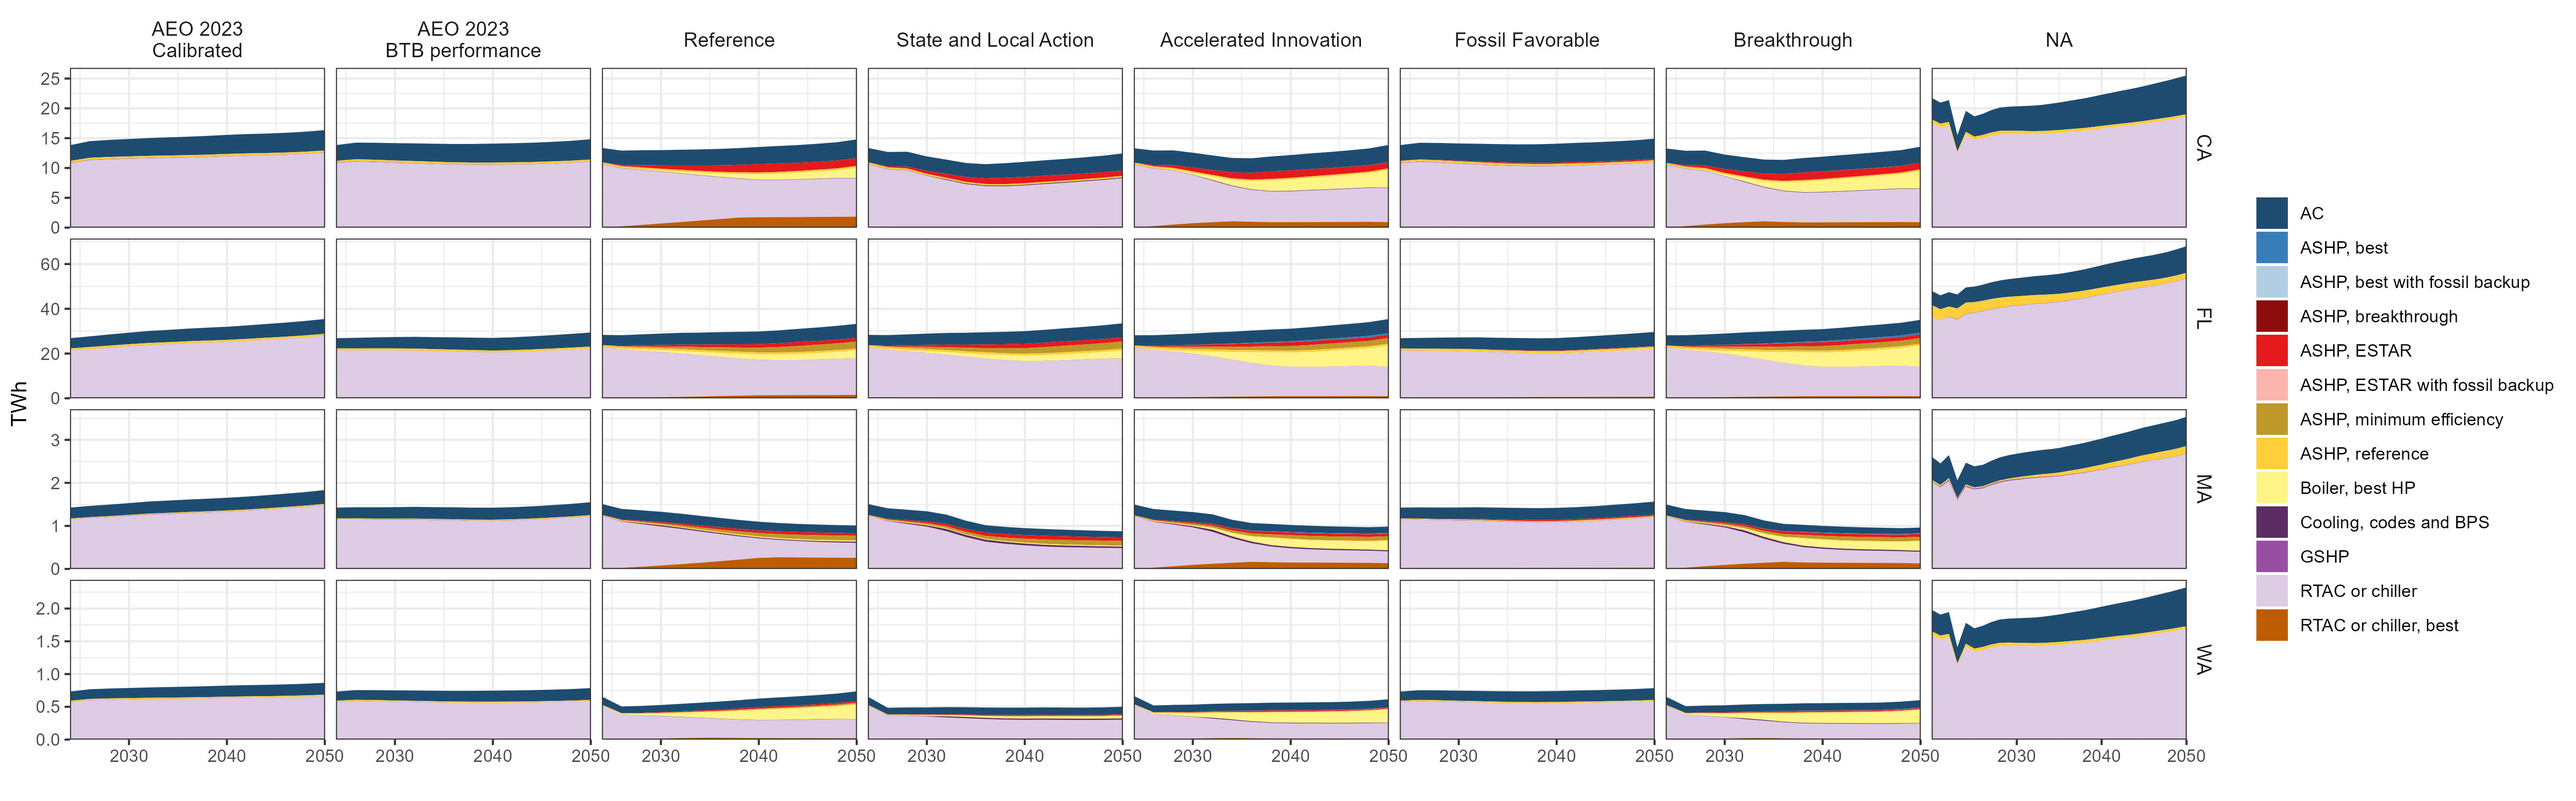
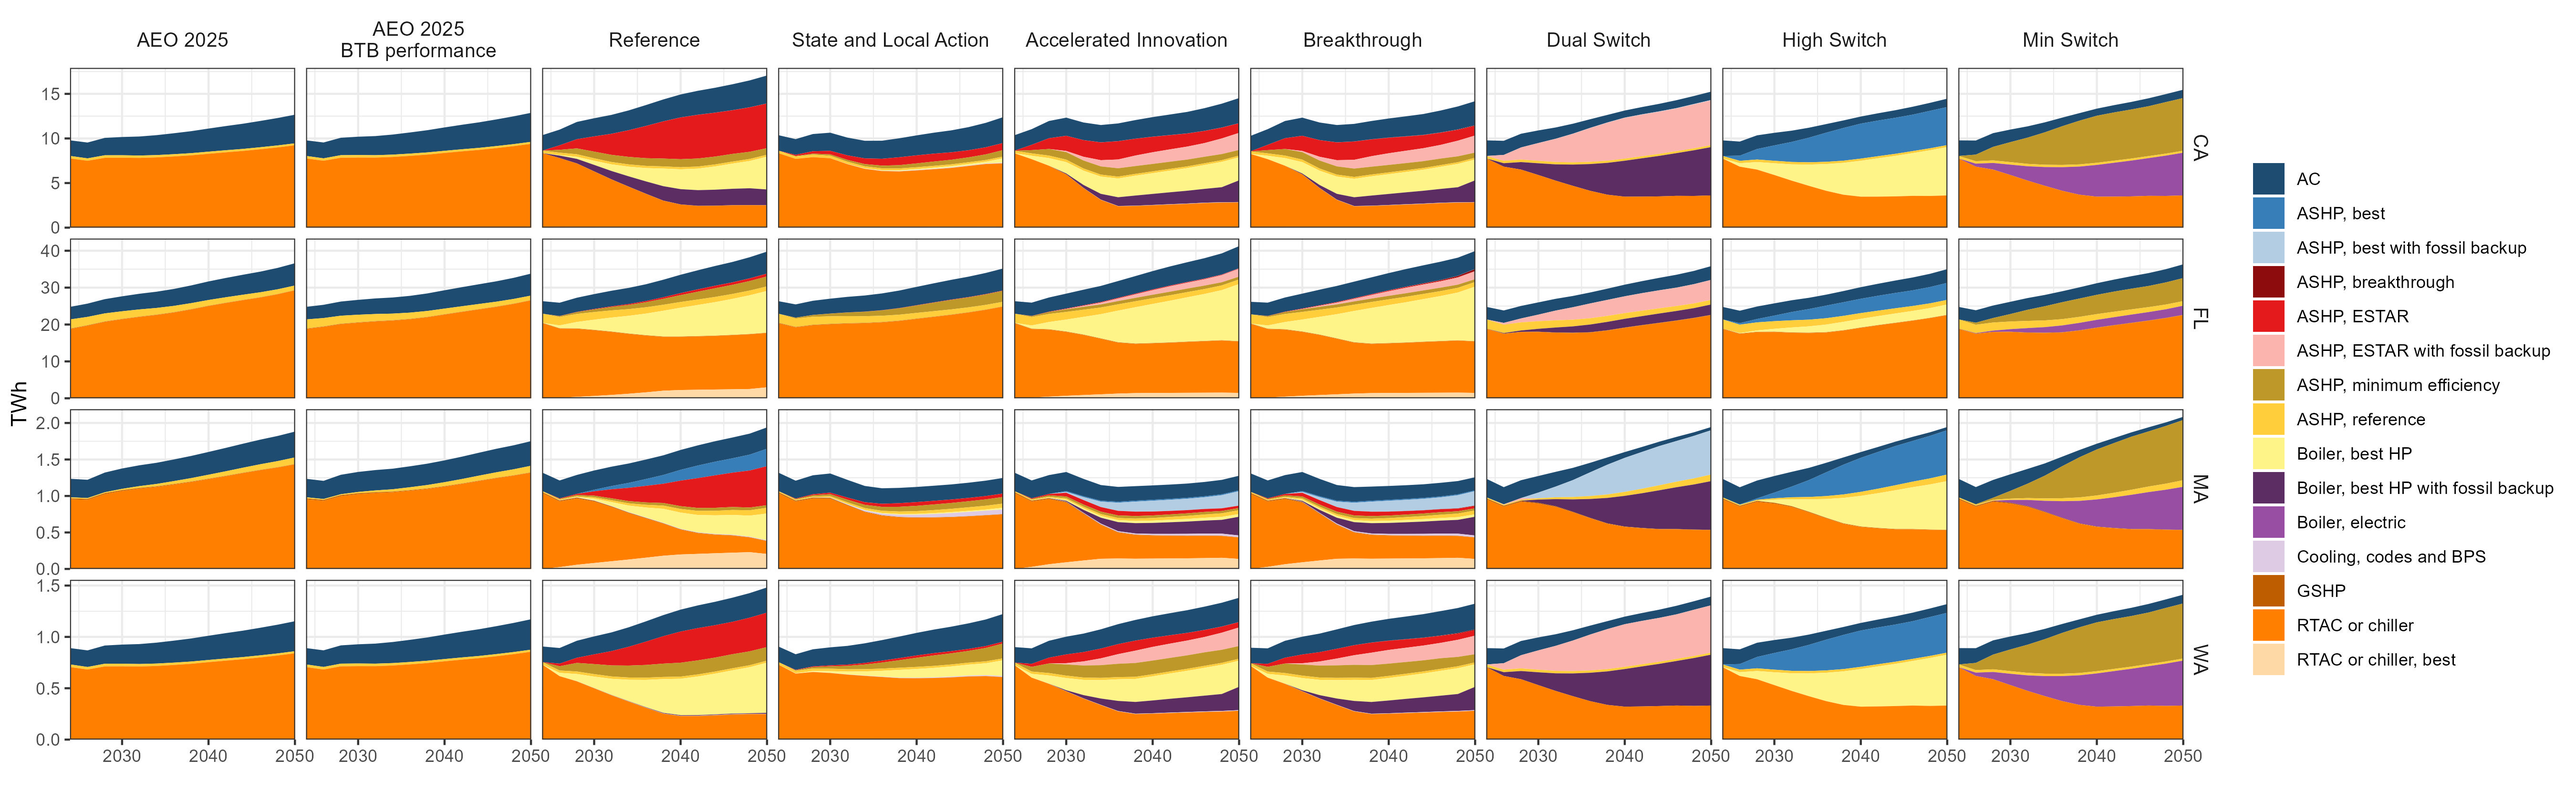
Modified to the latest

diff --git a/bss_workflow.py b/bss_workflow.py
@@ -42,9 +42,8 @@ class Config:
     # Runtime switches/identifiers
     DEST_BUCKET = "bss-workflow"
     BUCKET_NAME = "handibucket" 
-    SCOUT_RUN_DATE = "2025-06-16"
-    # VERSION_ID = "20250806_amy"
-    VERSION_ID = "20250910"
+    SCOUT_RUN_DATE = "2025-09-11"
+    VERSION_ID = "20250911"
 
     # TURNOVERS = ["breakthrough", "ineff", "mid", "high", "stated"]
     # TURNOVERS = ['brk','aeo25_20to50_bytech_indiv','aeo25_20to50_bytech_gap_indiv']
@@ -747,9 +746,10 @@ def county_partition_multipliers(athena_client, cfg: Config):
 def gen_scoutdata(s3_client, athena_client, cfg: Config):
     scout_files = [
         # Examples kept; you can uncomment the ones you need.
-        # "brk.json", 
-        # "accel.json", "state.json", "ref.json", "aeo.json",
-        # "dual_switch.json", "high_switch.json"
+        "brk.json", 
+        "accel.json", "state.json", "ref.json", "aeo.json",
+        "dual_switch.json", 
+        "high_switch.json",
         "min_switch.json"
         # "aeo25_20to50_bytech_indiv.json",
         # "aeo25_20to50_bytech_gap_indiv.json",
@@ -757,7 +757,7 @@ def gen_scoutdata(s3_client, athena_client, cfg: Config):
     ]
 
     # Ensure measure_map exists in Athena
-    # s3_create_table_from_tsv(s3_client, athena_client, cfg.MEAS_MAP_PATH, cfg)
+    s3_create_table_from_tsv(s3_client, athena_client, cfg.MEAS_MAP_PATH, cfg)
 
     for scout_file in scout_files:
         print(f">>> SCOUT FILE: {scout_file}")
@@ -798,8 +798,7 @@ def gen_countydata(athena_client, cfg: Config):
     for s in sectors:
         for y in years:
             for t in turnovers:
-                for name in ["tbl_ann_county.sql", "annual_county.sql",
-                             "tbl_hr_county.sql", "hourly_county.sql"]:
+                for name in ["tbl_ann_county.sql", "annual_county.sql","tbl_hr_county.sql", "hourly_county.sql"]:
                     sql_to_s3table(athena_client, cfg, name, s, y, t)
 
 
@@ -867,6 +866,7 @@ def combine_countydata(athena_client, cfg: Config):
         False)
 
     queries = [q_combined["annual"], q_combined["hourly"]]
+
     for query in queries:
         for t in turnovers:
             q = query.format(turnover=t, dest_bucket=cfg.BUCKET_NAME, version=cfg.VERSION_ID)
@@ -1247,6 +1247,7 @@ def main(opts):
     if opts.gen_scoutdata:
         s3, athena = get_boto3_clients()
         gen_scoutdata(s3, athena, cfg)
+        run_r_script("annual_graphs.R")
 
     if opts.gen_county:
         _, athena = get_boto3_clients()
@@ -1263,14 +1264,12 @@ def main(opts):
     if opts.gen_countyall:
         s3, athena = get_boto3_clients()
         # gen_scoutdata(s3, athena, cfg)
-        # gen_countydata(athena, cfg)
 
+        # gen_countydata(athena, cfg)
         # combine_countydata(athena, cfg)
         # test_county(s3, athena, cfg)
-
-        run_r_script("annual_graphs.R")
         # get_csvs_for_R(s3, athena, cfg)
-        # run_r_script("county and hourly graphs.R")
+        run_r_script("county and hourly graphs.R")
         # convert_long_to_wide(athena, cfg)
 
     if opts.bssbucket_insert:
